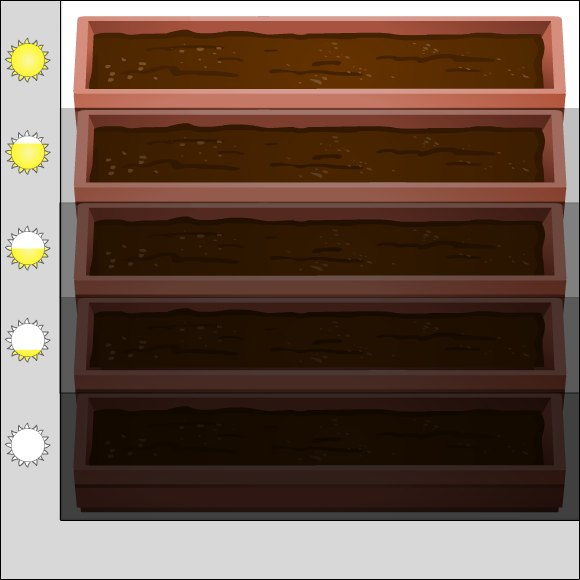
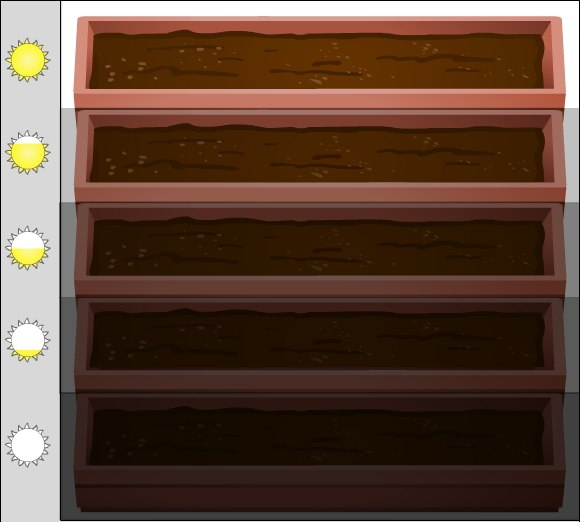
Change image dimensions and update sunlight areas
git-svn-id: https://svn.concord.org/svn/projects/trunk/common/java/otrunk/otrunk-examples@19366 6e01202a-0783-4428-890a-84243c50cc2b

diff --git a/EvolutionReadiness/models/scripts/gradated-sunlight-five-blocks/setup.js b/EvolutionReadiness/models/scripts/gradated-sunlight-five-blocks/setup.js
@@ -12,13 +12,13 @@ function init() {
 	        for (var j = 0; j < 15; j++) {
 	        	var envUnit = new EnvironmentUnit(env, null, i, j)
 	        	env.setEnvironmentUnit(envUnit, i, j)
-	        	if (j < 2)
+	        	if (j < 3)
 	        		percentSunlight = 1.0
-	        	else if (j < 5)
-	        		percentSunlight = 0.75
 	        	else if (j < 6)
-	        		percentSunlight = 0.5
+	        		percentSunlight = 0.75
 	        	else if (j < 9)
+	        		percentSunlight = 0.5
+	        	else if (j < 11)
 	        		percentSunlight = 0.25
 	        	else if (j < 15)
 	        		percentSunlight = 0.1
